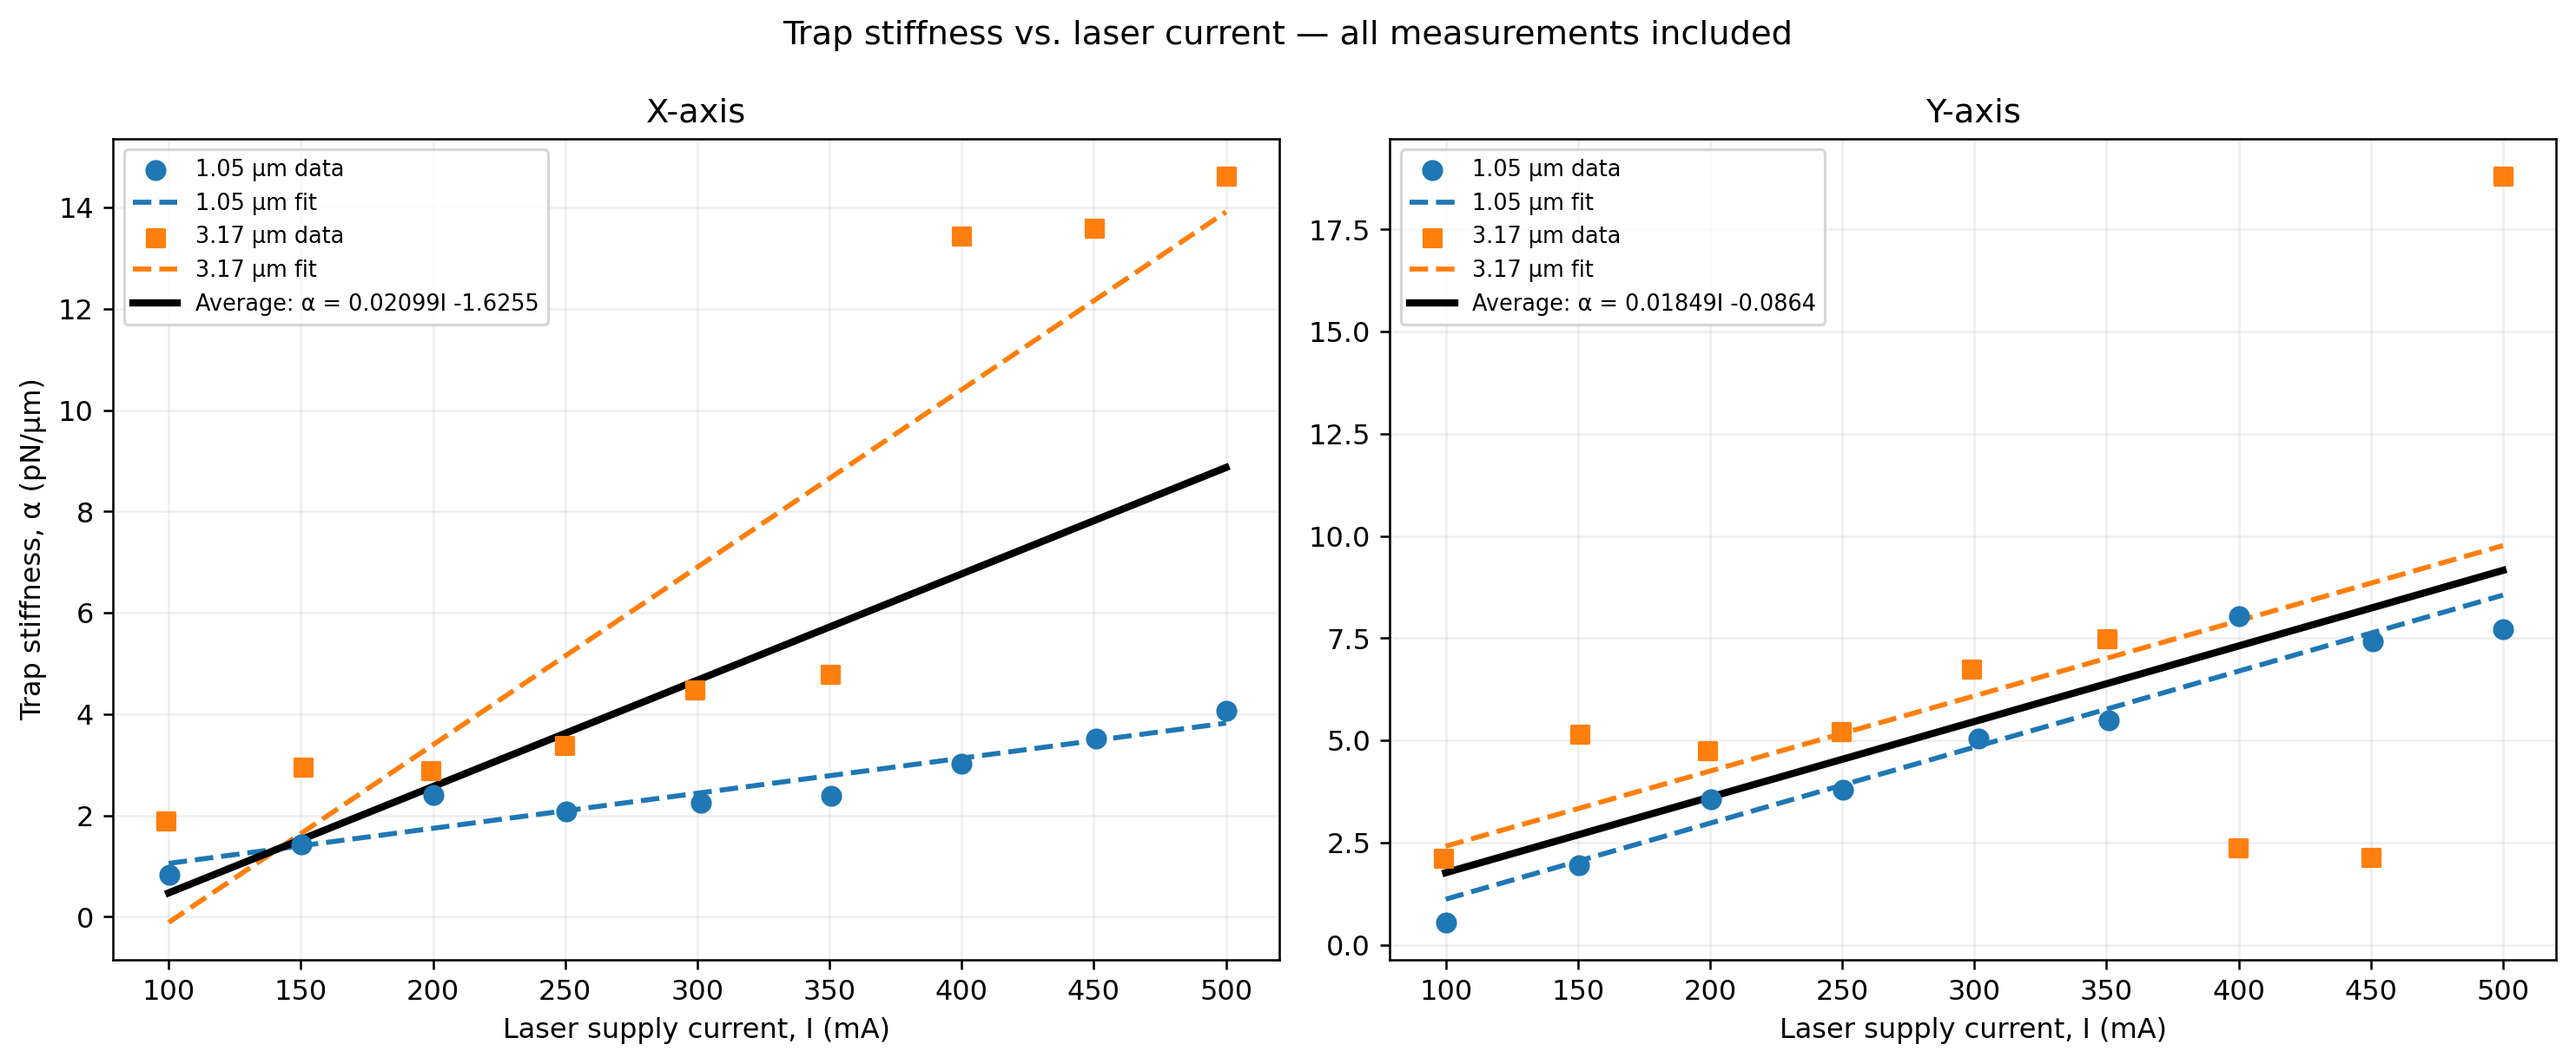
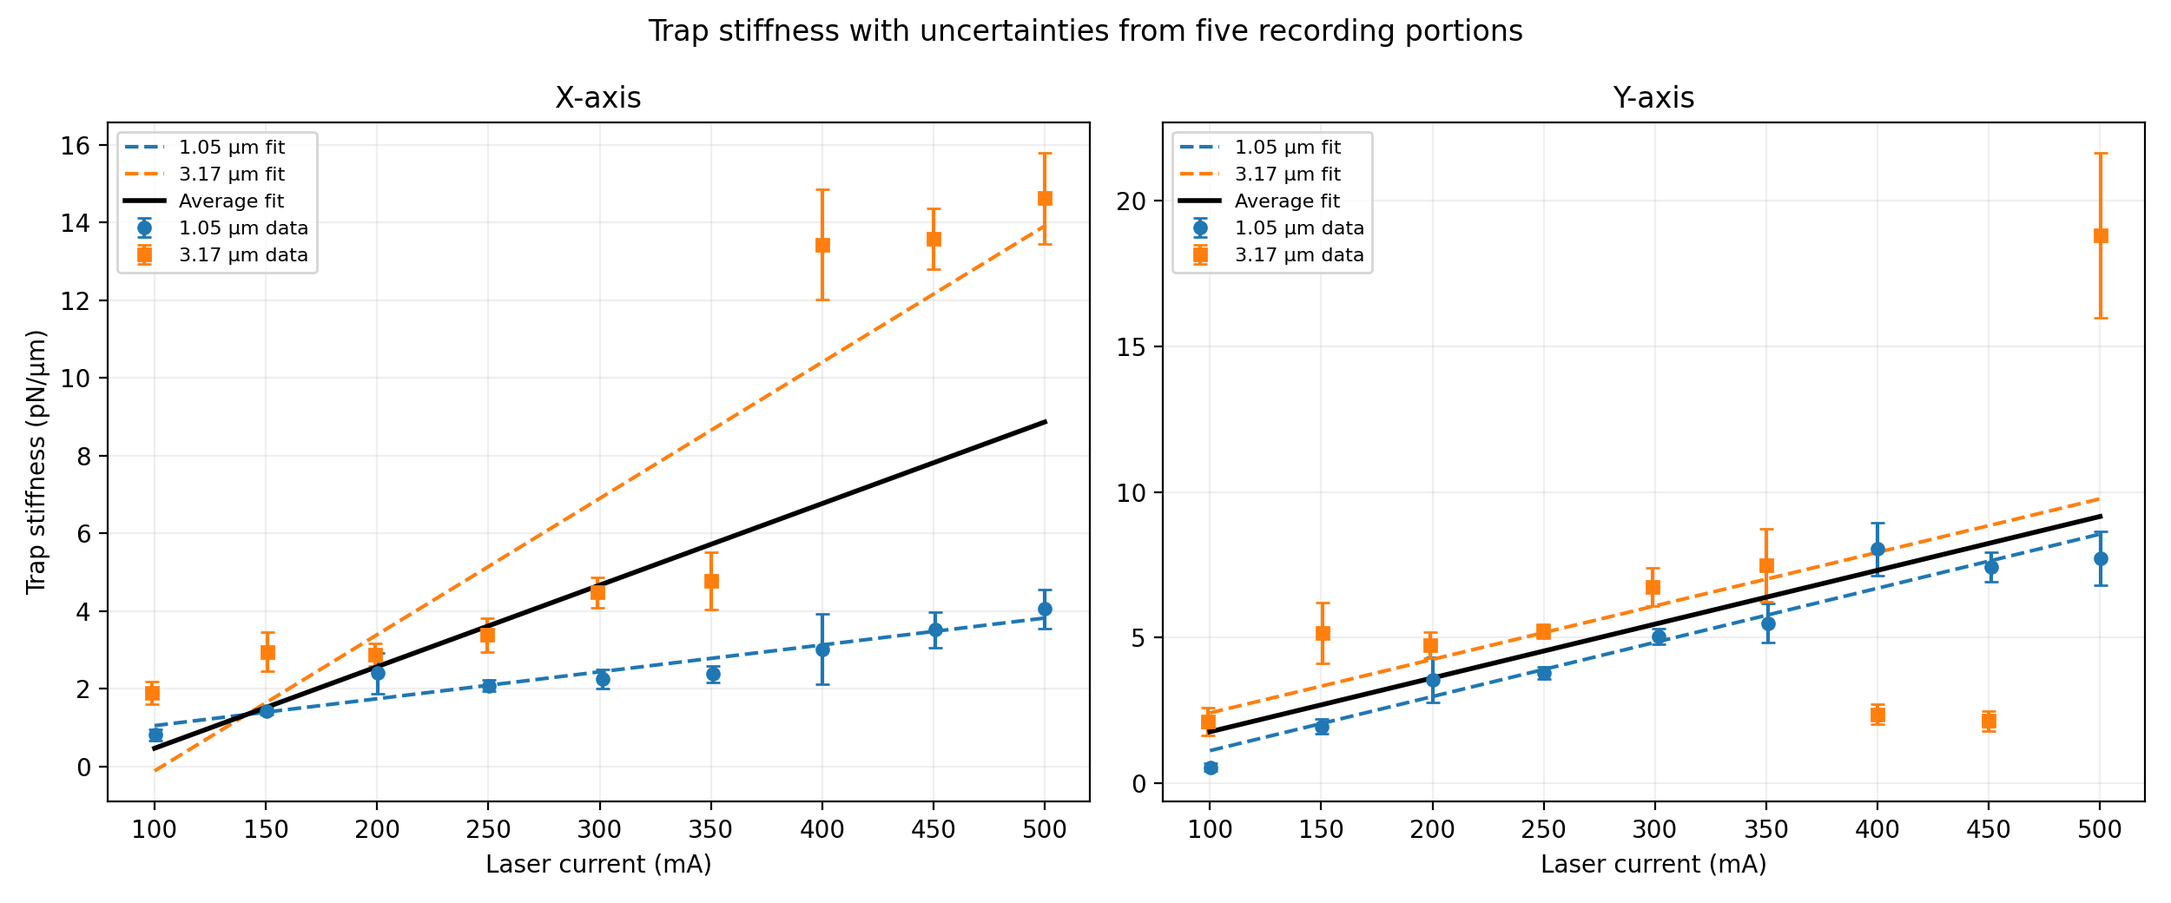
paper edit

diff --git a/plot_paper.py b/plot_paper.py
@@ -1,0 +1,87 @@
+from pathlib import Path
+import numpy as np
+import pandas as pd
+import matplotlib.pyplot as plt
+from scipy.stats import linregress
+
+root = Path(__file__).resolve().parent
+out = root / 'results'
+cal = pd.read_csv(root / 'data/fixed_bead/calibration.csv')
+data = pd.read_csv(out / 'measurements.csv')
+selected = pd.read_csv(out / 'alpha_selected.csv')
+errors = pd.read_csv(out / 'stiffness_point_errors.csv')
+points = selected.merge(errors[['file', 'axis', 'sigma_alpha_total']], on=['file', 'axis'])
+
+fig, axes = plt.subplots(1, 2, figsize=(9.1, 3.85), sharey=True)
+for ax, size, title in zip(axes, [1, 3], ['1.05 µm beads', '3.17 µm beads']):
+    for axis, color, marker in [('X', 'tab:blue', 'o'), ('Y', 'tab:orange', 's')]:
+        group = cal[(cal.bead_um == size) & (cal.axis == axis)].sort_values('current_mA')
+        current = group.current_mA.to_numpy()
+        slope = np.abs(group.baseline_slope.to_numpy())
+        sigma = group.mc_sd_slope.to_numpy()
+        fit = linregress(current, slope)
+        x = np.linspace(100, 500, 200)
+        ax.plot(x, fit.slope*x + fit.intercept, color=color,
+                label=f'{axis} fit ($R^2$={fit.rvalue**2:.3f})')
+        ax.errorbar(current, slope, xerr=0.05, yerr=sigma, color=color,
+                    fmt=marker, ms=4.5, capsize=2.5, linestyle='none',
+                    label=f'{axis} data (1σ)')
+    ax.set_title(title)
+    ax.set_xlabel('Laser current (mA)')
+    ax.grid(alpha=0.2)
+    ax.legend(fontsize=8, loc='upper left')
+axes[0].set_ylabel('QPD calibration slope (V/V)')
+fig.tight_layout()
+fig.savefig(out / 'qpd_calibration.png', dpi=200)
+plt.close(fig)
+
+fig, axes = plt.subplots(1, 2, figsize=(12.5, 5.2), sharex=True)
+for ax, axis in zip(axes, ['X', 'Y']):
+    xfit = np.linspace(100, 500, 200)
+    fits = []
+    for bead, color, marker in [(1.05, 'tab:blue', 'o'), (3.17, 'tab:orange', 's')]:
+        group = points[(points.axis == axis) & np.isclose(points.bead_um, bead)].sort_values('current_mA')
+        x = group.current_mA.to_numpy()
+        y = group.alpha_pN_um.to_numpy()
+        fit = linregress(x, y)
+        fits.append(fit)
+        ax.errorbar(x, y, yerr=group.sigma_alpha_total.to_numpy(),
+                    fmt=marker, color=color, markersize=5, capsize=3,
+                    linestyle='none', label=f'{bead:.2f} µm data')
+        ax.plot(xfit, fit.slope*xfit + fit.intercept, '--', color=color,
+                label=f'{bead:.2f} µm fit')
+    slope = np.mean([fit.slope for fit in fits])
+    intercept = np.mean([fit.intercept for fit in fits])
+    ax.plot(xfit, slope*xfit + intercept, color='black', lw=2, label='Average fit')
+    ax.set_title(f'{axis}-axis')
+    ax.set_xlabel('Laser current (mA)')
+    ax.grid(alpha=0.2)
+    ax.legend(fontsize=8)
+axes[0].set_ylabel('Trap stiffness (pN/µm)')
+fig.suptitle('Trap stiffness with uncertainties from five recording portions')
+fig.tight_layout()
+fig.savefig(out / 'trap_stiffness.png', dpi=200)
+plt.close(fig)
+
+accepted = 1.380649e-23
+fig, axes = plt.subplots(1, 2, figsize=(9, 4), sharey=True)
+all_values = np.concatenate([data.kB_PSD_J_K.to_numpy(), data.kB_equip_J_K.to_numpy()])
+bins = np.geomspace(all_values.min()*0.8, all_values.max()*1.2, 24)
+for ax, title, column in zip(axes, ['PSD method', 'Equipartition method'],
+                              ['kB_PSD_J_K', 'kB_equip_J_K']):
+    values = data[column].to_numpy()
+    ax.hist(values, bins=bins, color='#4c78a8', edgecolor='white')
+    ax.axvline(accepted, color='tab:orange', ls='--', lw=2, label='Accepted $k_B$')
+    ax.axvline(np.median(values), color='tab:green', lw=2, label='Median')
+    ax.set_xscale('log')
+    ticks = accepted * 10**np.arange(-1, 4, dtype=float)
+    ax.set_xticks(ticks)
+    ax.set_xticklabels([f'{tick:.2e}' for tick in ticks], fontsize=8)
+    ax.set_title(title)
+    ax.set_xlabel('Estimated kB (J/K)')
+    ax.grid(axis='y', alpha=0.2)
+    ax.legend(fontsize=9)
+axes[0].set_ylabel('Number of measurements')
+fig.tight_layout()
+fig.savefig(out / 'kb_histograms.png', dpi=200)
+plt.close(fig)

diff --git a/stiffness_errors.py b/stiffness_errors.py
@@ -1,0 +1,81 @@
+from pathlib import Path
+import numpy as np
+import pandas as pd
+from scipy.signal import welch
+from scipy.optimize import least_squares
+from scipy.stats import linregress
+
+root = Path(__file__).resolve().parent
+out = root / 'results'
+measurements = pd.read_csv(out / 'measurements.csv')
+selected = pd.read_csv(out / 'alpha_selected.csv')
+
+
+def fit_corner(signal):
+    f, p = welch(signal - np.mean(signal), fs=5000, window='hann', nperseg=8192, noverlap=4096)
+    edges = np.geomspace(f[1], f[-1], 101)
+    groups = np.digitize(f, edges)
+    bins = [(f[groups == j].mean(), p[groups == j].mean())
+            for j in range(1, len(edges)) if np.any(groups == j)]
+    fb, pb = np.array(bins).T
+    keep = (fb >= 5) & (fb <= 1000)
+    x, y = fb[keep], pb[keep]
+
+    def residual(z):
+        A, fc, noise = np.exp(z)
+        return np.log(A / (x**2 + fc**2) + noise) - np.log(y)
+
+    fits = []
+    for guess in [5, 20, 70, 200, 600]:
+        start = [max(y[0] * (x[0]**2 + guess**2), 1e-14),
+                 guess, max(np.median(y[-8:]) * 0.5, 1e-15)]
+        fit = least_squares(residual, np.log(start),
+                            bounds=(np.log([1e-20, .2, 1e-17]),
+                                    np.log([1e8, 3000, 1e3])), max_nfev=350)
+        fits.append(fit)
+    return np.exp(min(fits, key=lambda fit: np.sum(fit.fun**2)).x[1])
+
+
+rows = []
+for file in measurements.file.unique():
+    info = measurements[measurements.file == file]
+    size = int(info.size_folder.iloc[0])
+    signal = np.loadtxt(root / 'data/floating_bead' / f'{size}um' / file, usecols=(0, 1))
+    for axis, column in [('X', 0), ('Y', 1)]:
+        corners = [fit_corner(piece) for piece in np.array_split(signal[:, column], 5)]
+        row = info[info.axis == axis].iloc[0]
+        sigma_fc = np.std(corners, ddof=1) / np.sqrt(5)
+        alpha = row.alpha_pN_um
+        sigma_fit = alpha * sigma_fc / row.corner_frequency_Hz
+        sigma_eta = alpha * 0.015
+        sigma_d = alpha * 0.005 / row.bead_um
+        rows.append(dict(file=file, axis=axis, bead_um=row.bead_um,
+                         current_mA=row.current_mA, f0_Hz=row.corner_frequency_Hz,
+                         sigma_f0_Hz=sigma_fc, alpha_pN_um=alpha,
+                         sigma_alpha_fit=sigma_fit, sigma_alpha_eta=sigma_eta,
+                         sigma_alpha_diameter=sigma_d,
+                         sigma_alpha_total=np.sqrt(sigma_fit**2 + sigma_eta**2 + sigma_d**2)))
+
+errors = pd.DataFrame(rows)
+errors.to_csv(out / 'stiffness_point_errors.csv', index=False)
+points = errors.merge(selected[['file', 'axis']], on=['file', 'axis'])
+results = []
+for axis in ['X', 'Y']:
+    for bead in [1.05, 3.17]:
+        group = points[(points.axis == axis) & np.isclose(points.bead_um, bead)]
+        x = group.current_mA.to_numpy()
+        y = group.alpha_pN_um.to_numpy()
+        fit = linregress(x, y)
+        r = y - (fit.slope * x + fit.intercept)
+        fit_error = group.sigma_alpha_fit.to_numpy()
+        eta_error = group.sigma_alpha_eta.to_numpy()
+        d_error = group.sigma_alpha_diameter.to_numpy()
+        covariance = np.diag(fit_error**2) + np.outer(eta_error, eta_error) + np.outer(d_error, d_error)
+        chi2 = float(r @ np.linalg.solve(covariance, r))
+        results.append(dict(axis=axis, bead_um=bead, chi2=chi2, dof=len(x)-2))
+    pair = [r for r in results if r['axis'] == axis]
+    results.append(dict(axis=axis, bead_um='combined',
+                        chi2=sum(r['chi2'] for r in pair), dof=sum(r['dof'] for r in pair)))
+
+pd.DataFrame(results).to_csv(out / 'stiffness_chi2.csv', index=False)
+print(pd.DataFrame(results).to_string(index=False))

diff --git a/run_all.py b/run_all.py
@@ -3,5 +3,5 @@ import sys
 from pathlib import Path
 
 root = Path(__file__).resolve().parent
-for script in ['analyze.py', 'select_alpha.py', 'fit_alpha_all_points_uncertainty.py', 'plot_slides.py']:
+for script in ['analyze.py', 'select_alpha.py', 'fit_alpha_all_points_uncertainty.py', 'stiffness_errors.py', 'plot_paper.py']:
     subprocess.run([sys.executable, str(root / script)], cwd=root, check=True)
